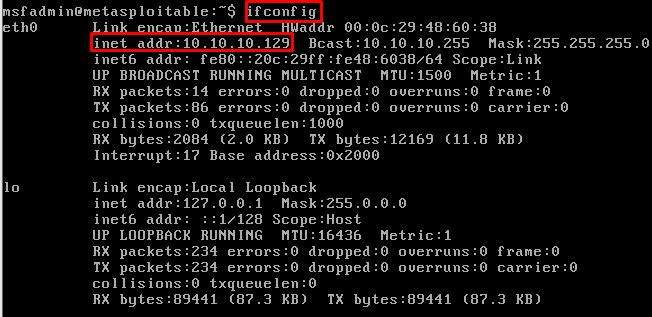
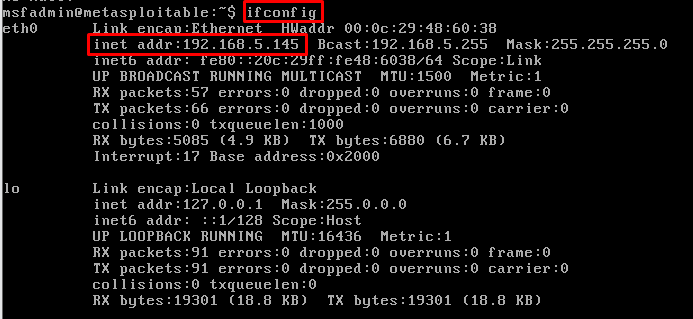
identify vulnerable service

Changed region(s): [[0.0, 0.0, 1.0, 0.511], [0.1227, 0.5678, 0.8896, 0.9653], [0.0, 0.5678, 0.0307, 0.6246]]

diff --git a/Metasploitable/vsftpd-2.3.4-backdoor/README.md b/Metasploitable/vsftpd-2.3.4-backdoor/README.md
@@ -39,7 +39,7 @@ The Metasploitable installation comes with this vulnerable version of vsftpd.
 |-------------------|-----------------------------|
 | Attacker Machine  | Kali Linux                  |
 | Target Machine    | Metasploitable 2            |
-| Target IP         | 10.10.10.129                |
+| Target IP         | 192.168.5.145               |
 | Network           | VMware Host-Only Network    |
 ```
 
@@ -116,16 +116,16 @@ ifconfig
 
 ```
 eth0      Link encap:Ethernet  HWaddr 00:0c:29:48:60:38
-          inet addr:10.10.10.129  Bcast:10.10.10.255  Mask:255.255.255.0
+          inet addr:192.168.5.145  Bcast:192.168.5.255  Mask:255.255.255.0
           inet6 addr: fe80::20c:29ff:fe48:6038/64 Scope:Link
           UP BROADCAST RUNNING MULTICAST  MTU:1500  Metric:1
-          RX packets:14 errors:0 dropped:0 overruns:0 frame:0
-          TX packets:86 errors:0 dropped:0 overruns:0 carrier:0
+          RX packets:57 errors:0 dropped:0 overruns:0 frame:0
+          TX packets:66 errors:0 dropped:0 overruns:0 carrier:0
           collisions:0 txqueuelen:1000
-          RX bytes:2084 (2.0 KB)  TX bytes:12169 (11.8 KB)
+          RX bytes:5085 (4.9 KB)  TX bytes:6880 (6.7 KB)
           Interrupt:17 Base address:0x2000
 ```
-The machine was up and running at `10.10.10.129` I switched over to my Kali machine and started the attack from there.
+The machine was up and running at `192.168.5.145` I switched over to my Kali machine and started the attack from there.
 
 <p align="center">
   <img src="images/step1-2.png" width="600">
@@ -136,7 +136,58 @@ The machine was up and running at `10.10.10.129` I switched over to my Kali mach
 I ran an nmap scan to find open ports and identify running services on the target.
 
 ```bash
-nmap -sV -sC 10.10.10.129
+nmap -sV -sC 192.168.5.145
 ```
 `-sV`: Version detection — finds the exact version of each service running
 `-sC` : Runs default nmap scripts against discovered services
+
+**Output:**
+
+```
+Starting Nmap 7.98 ( https://nmap.org ) at 2026-07-06 01:36 -0400
+Nmap scan report for 192.168.5.145
+Host is up (0.0011s latency).
+Not shown: 977 closed tcp ports (reset)
+
+PORT     STATE SERVICE     VERSION
+21/tcp   open  ftp         vsftpd 2.3.4
+22/tcp   open  ssh         OpenSSH 4.7p1 Debian 8ubuntu1 (protocol 2.0)
+23/tcp   open  telnet      Linux telnetd
+25/tcp   open  smtp        Postfix smtpd
+53/tcp   open  domain      ISC BIND 9.4.2
+80/tcp   open  http        Apache httpd 2.2.8 ((Ubuntu) DAV/2)
+111/tcp  open  rpcbind     2 (RPC #100000)
+139/tcp  open  netbios-ssn Samba smbd 3.X - 4.X
+445/tcp  open  netbios-ssn Samba smbd 3.0.20-Debian
+512/tcp  open  exec        netkit-rsh rexecd
+513/tcp  open  login       OpenBSD or Solaris rlogind
+514/tcp  open  tcpwrapped
+1099/tcp open  java-rmi    GNU Classpath grmiregistry
+1524/tcp open  bindshell   Metasploitable root shell
+2049/tcp open  nfs         2-4 (RPC #100003)
+2121/tcp open  ftp         ProFTPD 1.3.1
+3306/tcp open  mysql       MySQL 5.0.51a-3ubuntu5
+5432/tcp open  postgresql  PostgreSQL DB 8.3.0 - 8.3.7
+5900/tcp open  vnc         VNC (protocol 3.3)
+6000/tcp open  X11         (access denied)
+6667/tcp open  irc         UnrealIRCd
+8009/tcp open  ajp13       Apache Jserv (Protocol v1.3)
+8180/tcp open  http        Apache Tomcat/Coyote JSP engine 1.1
+```
+The scan came back with a huge list of open ports and services. The machine was running a lot of outdated and vulnerable software. The one that stood out right away was:
+
+```
+21/tcp   open  ftp   vsftpd 2.3.4
+```
+vsftpd 2.3.4 is a well known version with a backdoor — that was my target.
+
+## Step 3 — Identifying the Vulnerable Service
+
+From the nmap output I confirmed:
+```
+| Service | Port | Version         | Status                        |
+|---------|------|-----------------|-------------------------------|
+| FTP     | 21   | vsftpd 2.3.4    | Vulnerable to backdoor exploit|
+```
+
+vsftpd 2.3.4 has a backdoor that was added directly into the source code in 2011. When triggered, it opens a root shell on port 6200. Metasploit has a ready made module for this.
